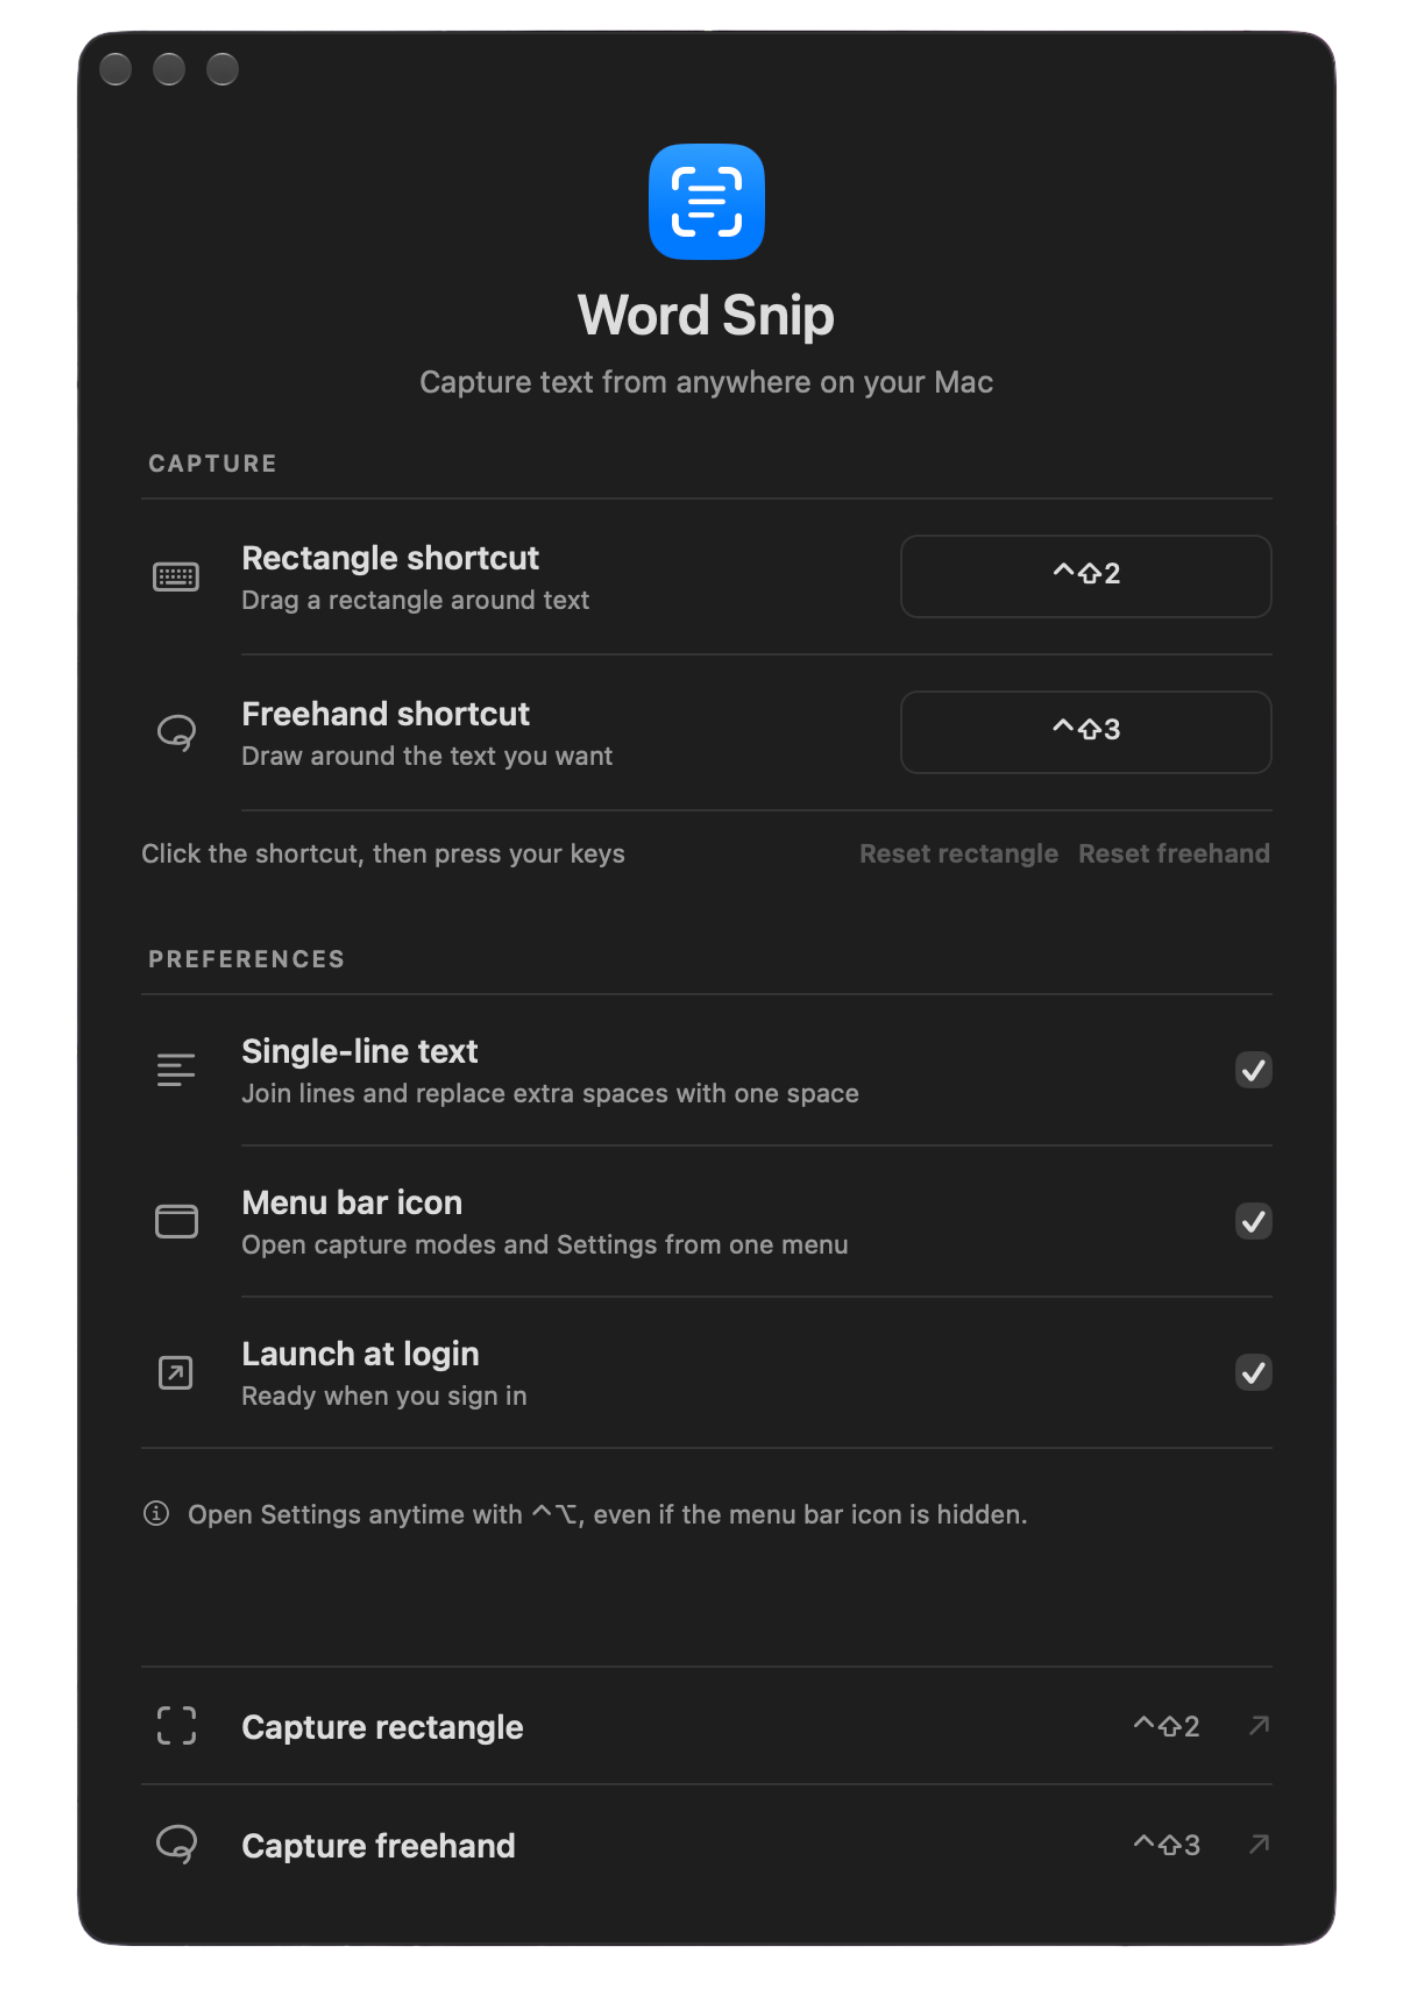
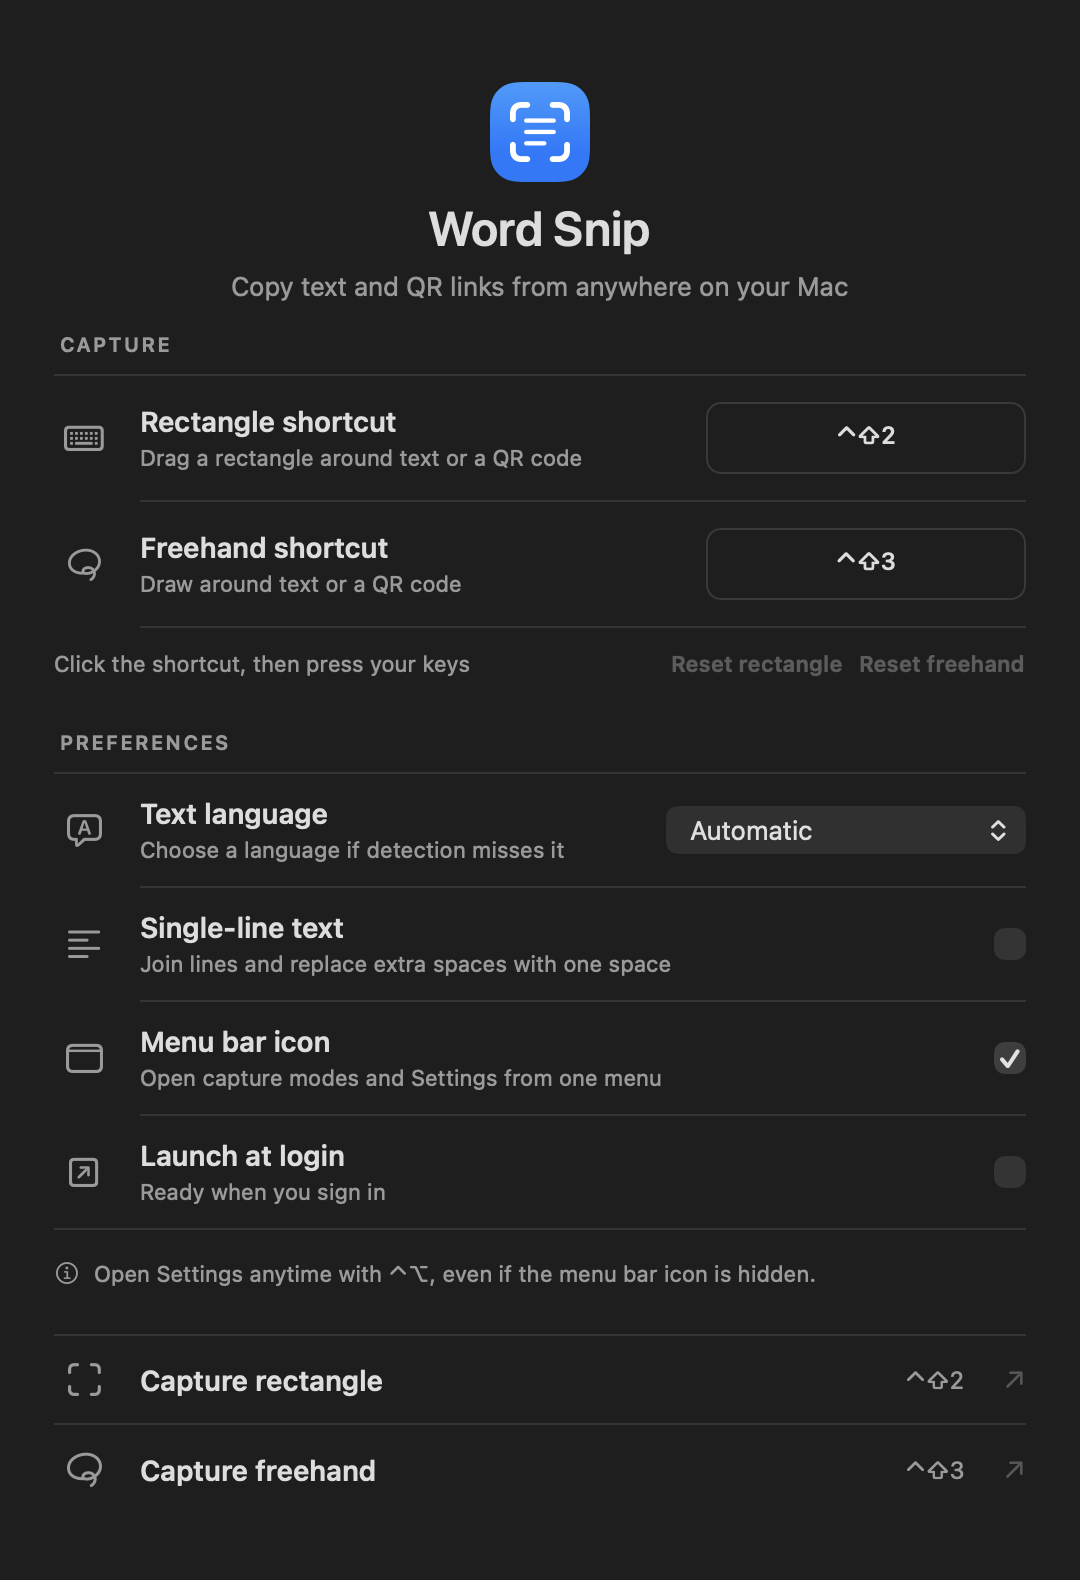
Update README for multilingual capture

diff --git a/README.md b/README.md
@@ -12,7 +12,7 @@
   </p>
 
   <p><strong>Copy text and QR links from anywhere on your Mac with a rectangle or freehand selection.</strong></p>
-  <p>Select an area of your screen. Word Snip uses Apple Vision to read it and copies the result to your clipboard.</p>
+  <p>Select an area of your screen. Word Snip uses Apple Vision to recognize text in multiple languages or read a QR code, then copies the result to your clipboard.</p>
 </div>
 
 ## Demo
@@ -27,18 +27,16 @@
 2. Drag around the text you want or enclose one full QR code. The freehand outline closes when you release the mouse; anything outside it is excluded.
 3. Paste the result. When the selection contains a readable QR code, Word Snip copies its contents, such as a link. Otherwise, it copies the recognized text. Press **Esc** to cancel a selection.
 
-If Word Snip finds more than one readable QR code, select a smaller area around the one you want.
-
 Word Snip can launch at login and has an optional menu bar icon. Its menu includes both capture modes. **⌃⌥,** opens Settings even when the icon is hidden.
 
-Word Snip detects the text language automatically. For short or ambiguous selections, you can pick a language under **Settings → Text language**. The picker lists the languages Apple Vision supports on your version of macOS.
+Word Snip detects the text language automatically. Depending on your macOS version, you can capture text in languages such as Chinese, Japanese, Korean, Thai, Russian, and Ukrainian. If a short or ambiguous selection comes out wrong, choose its language under **Settings → Text language** and capture it again.
 
 In Settings, turn on **Single-line text** to copy OCR results as one continuous line. It replaces line breaks and repeated whitespace with single spaces, making the text easier to paste into a document.
 
 To set either capture shortcut, open Settings, click its current shortcut, then press a key with **Command**, **Control**, or **Option**. Press **Esc** to cancel recording. If another app or the other capture mode already uses that combination, Word Snip keeps your previous shortcut.
 
 <p align="center">
-  <img src="assets/word-snip-settings%20screenshot.png" alt="Word Snip Settings showing capture shortcuts, single-line text, menu bar icon, and launch at login" width="420">
+  <img src="assets/word-snip-settings%20screenshot.png" alt="Word Snip Settings showing the Text language picker set to Automatic and both capture shortcuts" width="420">
 </p>
  
 ## Download and install
